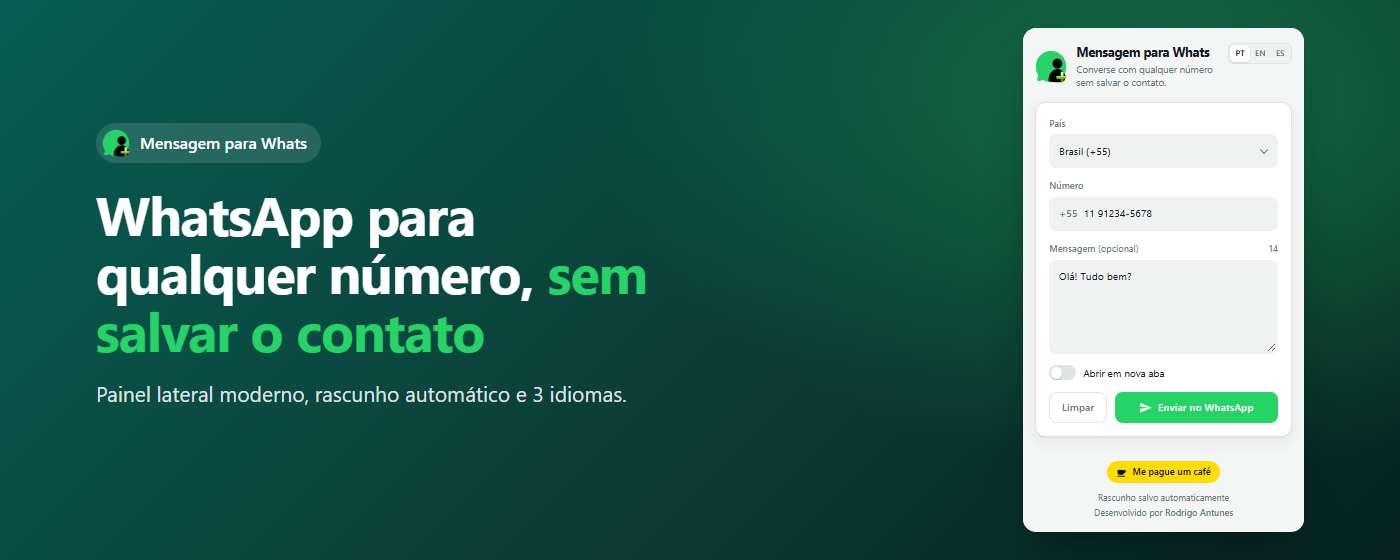
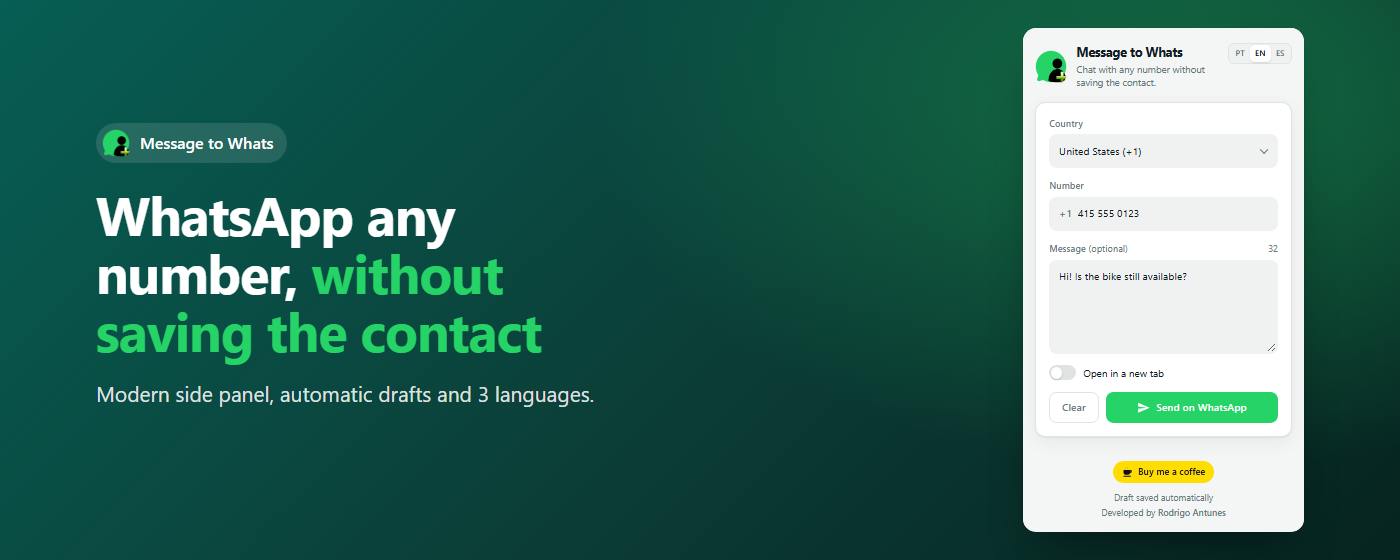
Blocos promocionais da loja em inglês

diff --git a/store-assets/src/marquee.html b/store-assets/src/marquee.html
@@ -1,5 +1,5 @@
 <!DOCTYPE html>
-<html lang="pt-BR">
+<html lang="en">
 
 <head>
   <meta charset="utf-8">
@@ -12,16 +12,16 @@
 <body>
   <section class="hero">
     <div class="hero__copy">
-      <div class="eyebrow"><img src="../../images/128.png" alt="">Mensagem para Whats</div>
-      <h1>WhatsApp para qualquer número, <em>sem salvar o contato</em></h1>
-      <p>Painel lateral moderno, rascunho automático e 3 idiomas.</p>
+      <div class="eyebrow"><img src="../../images/128.png" alt="">Message to Whats</div>
+      <h1>WhatsApp any number, <em>without saving the contact</em></h1>
+      <p>Modern side panel, automatic drafts and 3 languages.</p>
     </div>
     <iframe class="panel" id="panel" src="../../sidepanel.html" width="380" height="680" style="zoom: 0.74"></iframe>
   </section>
 
   <script src="demo.js"></script>
   <script>
-    fillPanel(document.getElementById('panel'), {lang:'pt',iso:'BR',number:'11 91234-5678',message:'Olá! Tudo bem?'});
+    fillPanel(document.getElementById('panel'), {lang:'en',iso:'US',number:'415 555 0123',message:'Hi! Is the bike still available?'});
   </script>
 </body>
 

diff --git a/store-assets/src/promo-small.html b/store-assets/src/promo-small.html
@@ -1,5 +1,5 @@
 <!DOCTYPE html>
-<html lang="pt-BR">
+<html lang="en">
 
 <head>
   <meta charset="utf-8">
@@ -54,8 +54,8 @@
 
 <body data-ready="1">
   <div class="tile">
-    <header><img src="../../images/128.png" alt="">Mensagem para Whats</header>
-    <h1>Mande mensagem <em>sem salvar o contato</em></h1>
+    <header><img src="../../images/128.png" alt="">Message to Whats</header>
+    <h1>Message anyone <em>without saving the contact</em></h1>
   </div>
 </body>
 
